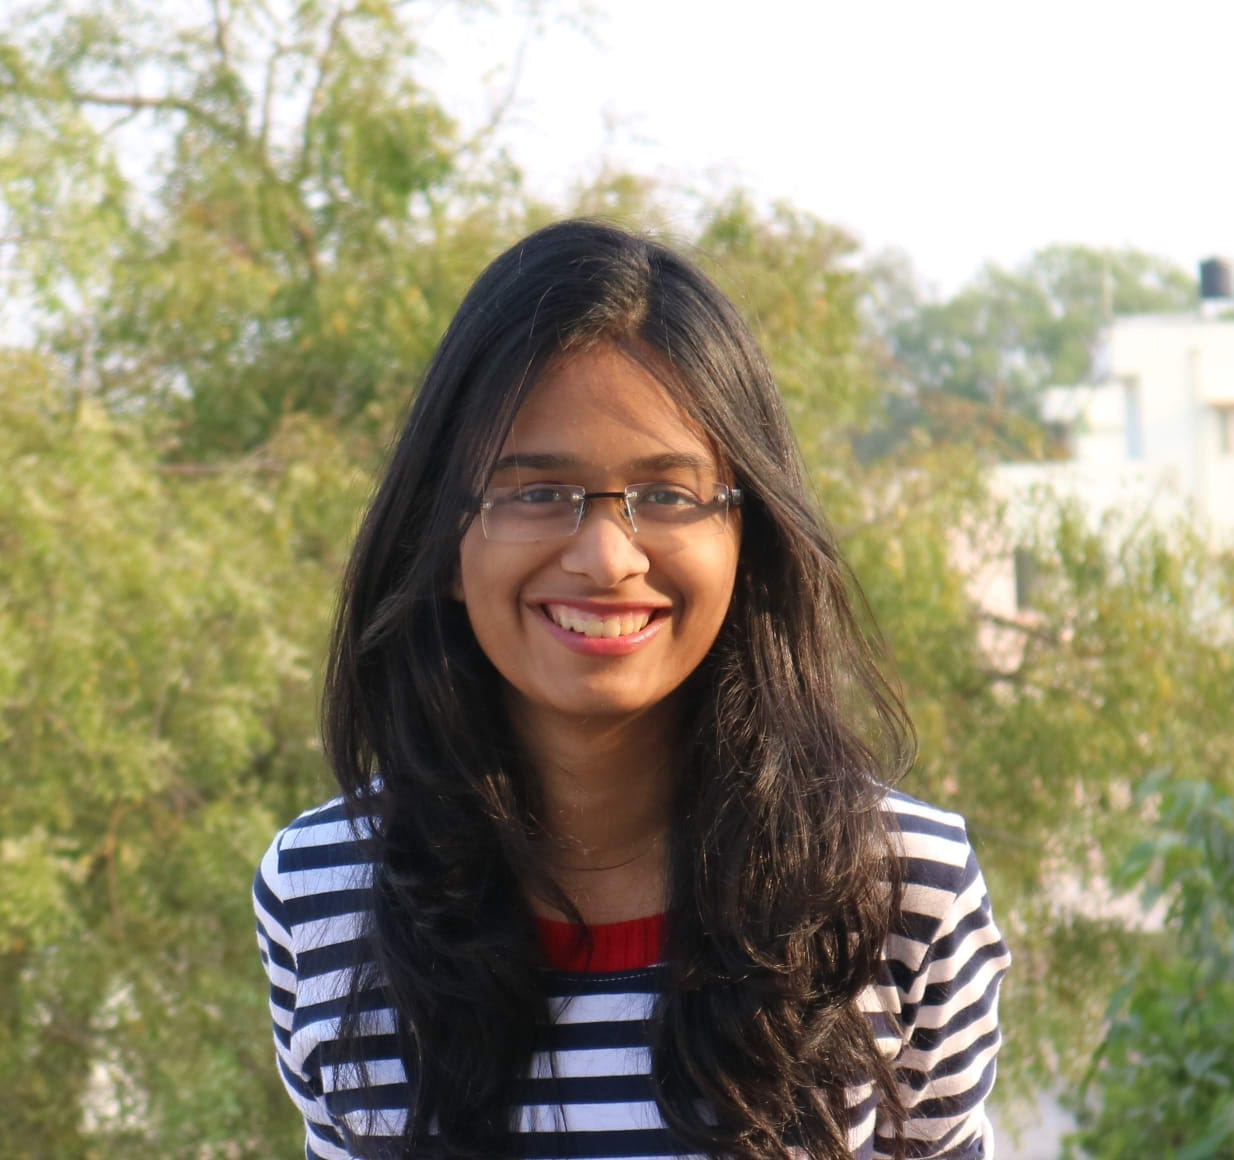
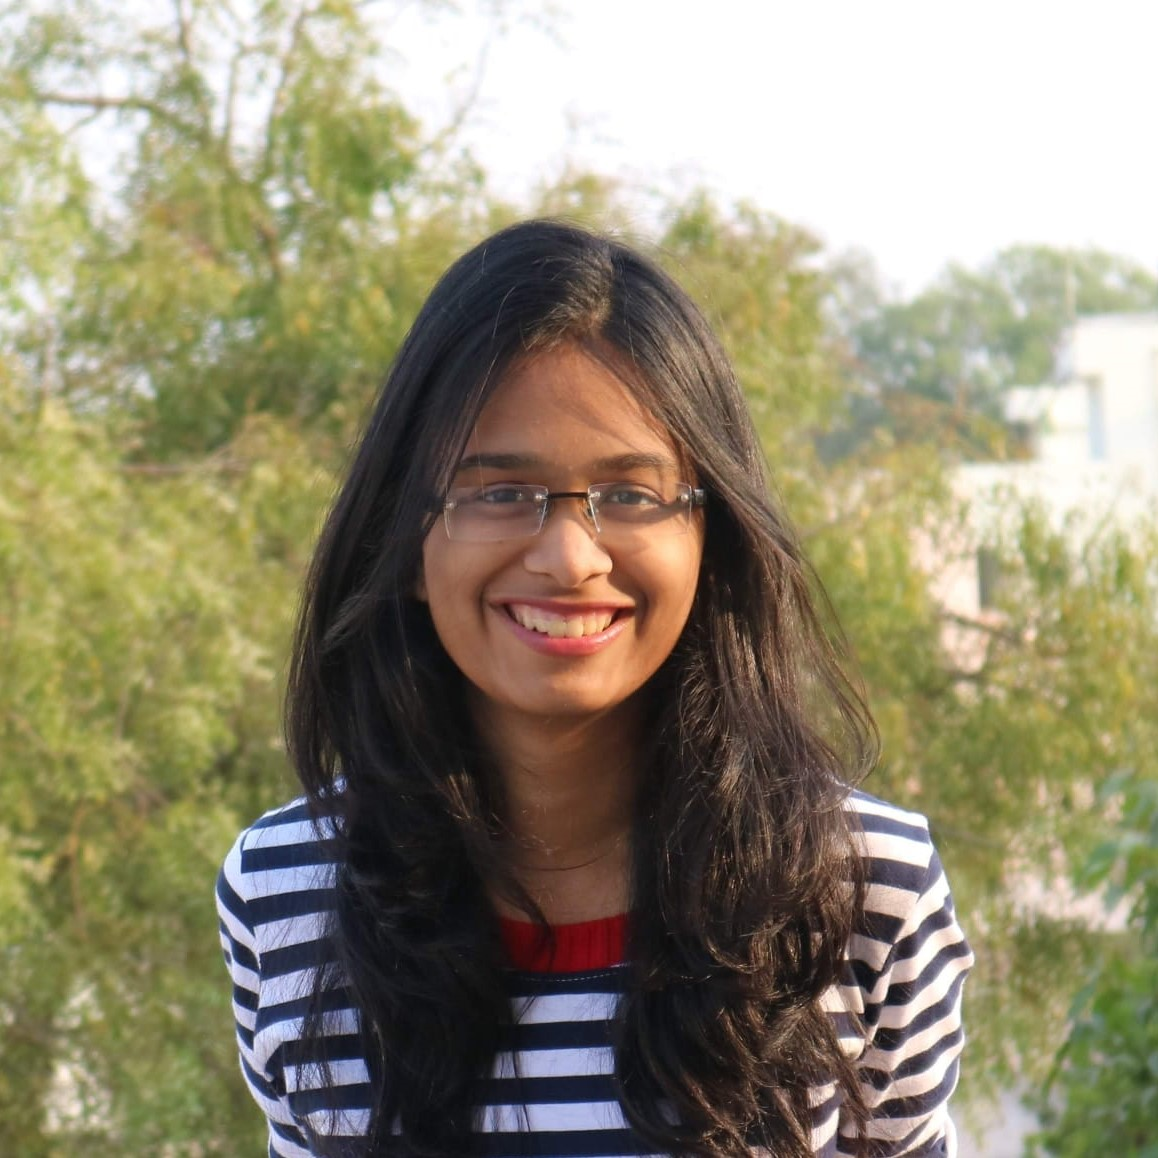
Team's pictures' dimensions fixed

diff --git a/index.html b/index.html
@@ -373,34 +373,34 @@
 	    <p style="color:#0000ad; font-family:'Bungee'; font-size:36px; margin-top:30px; margin-bottom:30px;">Team</p>
 	    <div class="row">
 	        <div class="col-sm-4 flex-container-vertical">
-	        	<img class="round" src="images/ankitha.jpg" style="width:120px"/>
+	        	<img class="round" src="images/ankitha.jpg"/>
 	        	<p class="teamMemName">Ankitha</p>
 	        	<!-- <p>Lorem, Ipsum Dolor</p> -->
 	        </div>
 	        <div class="col-sm-4 flex-container-vertical">
-	        	<img class="round" src="images/charita.jpeg" style="width:120px"/>
+	        	<img class="round" src="images/charita.jpeg"/>
 	        	<p class="teamMemName">Charita</p>
 	        	<!-- <p>Lorem, Ipsum Dolor</p> -->
 	        </div>
 	        <div class="col-sm-4 flex-container-vertical">
-	        	<img class="round" src="images/keerthi.jpeg" style="width:120px"/>
+	        	<img class="round" src="images/keerthi.jpeg"/>
 	        	<p class="teamMemName">Keerthi</p>
 	        	<!-- <p>Lorem, Ipsum Dolor</p> -->
 	        </div>
 	    </div>
 	    <div class="row">
 	        <div class="col-sm-4 flex-container-vertical">
-	        	<img class="round" src="images/krishnasri.jpg" style="width:120px"/>
+	        	<img class="round" src="images/krishnasri.jpg"/>
 	        	<p class="teamMemName">Krishna Sri</p>
 	        	<!-- <p>Lorem, Ipsum Dolor</p> -->
 	        </div>
 	        <div class="col-sm-4 flex-container-vertical">
-	        	<img class="round" src="images/richa.jpeg" style="width:120px"/>
+	        	<img class="round" src="images/richa.jpeg"/>
 	        	<p class="teamMemName">Richa</p>
 	        	<!-- <p>Lorem, Ipsum Dolor</p> -->
 	        </div>
 	        <div class="col-sm-4 flex-container-vertical">
-	        	<img class="round" src="images/sreeshma.jpeg" style="width:120px"/>
+	        	<img class="round" src="images/sreeshma.jpeg"/>
 	        	<p class="teamMemName">Sai Sreeshma</p>
 	        	<!-- <p>Lorem, Ipsum Dolor</p> -->
 	        </div>

diff --git a/main.css b/main.css
@@ -123,6 +123,8 @@
 
 .round {
     border-radius: 50%;
+    width: 120px;
+    height: 120px;
 }
 .teamMemName {
     color: #0000ad; 
